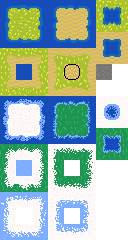
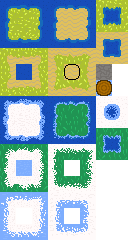
Small fixes, pushed for a Linux test

Changed region(s): [[0.75, 0.3208, 0.875, 0.4083]]

diff --git a/src/Systems/RenderGUISystem.h b/src/Systems/RenderGUISystem.h
@@ -298,7 +298,7 @@ class RenderGUISystem
 					if (showCharacter) {
 						ImGui::SetNextWindowPos(ImVec2(10, 60), ImGuiCond_FirstUseEver);
 
-						if (ImGui::Begin("Character", &showCharacter)) {
+						if (ImGui::Begin("Character", &showCharacter, ImGuiWindowFlags_AlwaysAutoResize)) {
 							ImGui::Text("Level: %d", progression.currentLevel);
 							ImGui::Text("%d / %d exp", progression.currentExperience, progression.experienceToNextLevel);
 							ImGui::Text("Skill points: %d", progression.unspentSkillPoints);

diff --git a/src/Game/Game.cpp b/src/Game/Game.cpp
@@ -658,9 +658,11 @@ void Game::Render()
 	if (gameState != GameState::Playing) {
 		const char* title = "VICTORY";
 		const char* hint = "Press R to restart";
+
 		if (gameState == GameState::Dead) {
 			title = "YOU DIED";
 		}
+
 		else if (gameState == GameState::Paused) {
 			title = "PAUSED";
 			hint = "P to unpause, R to restart";
